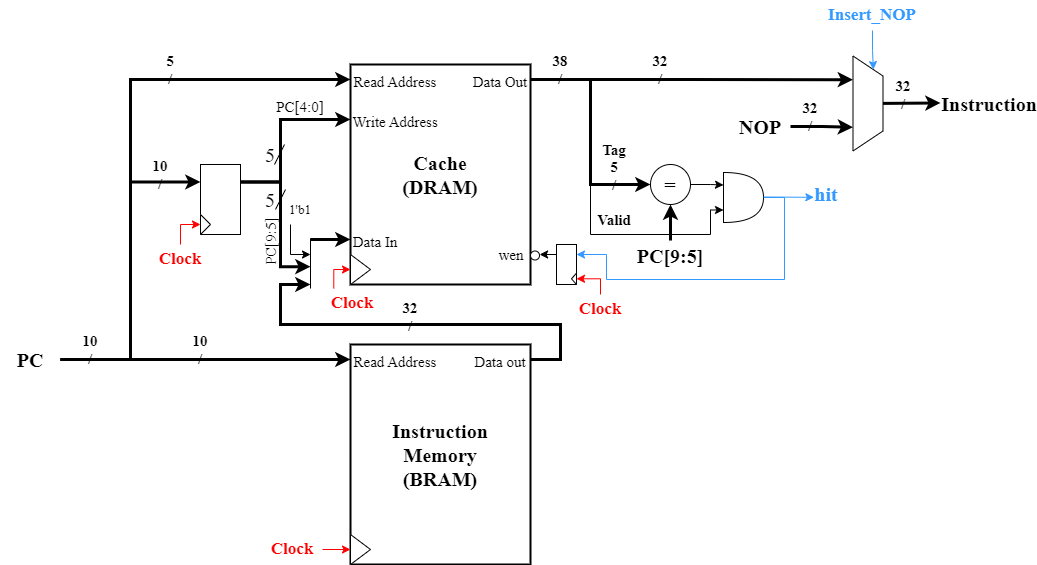
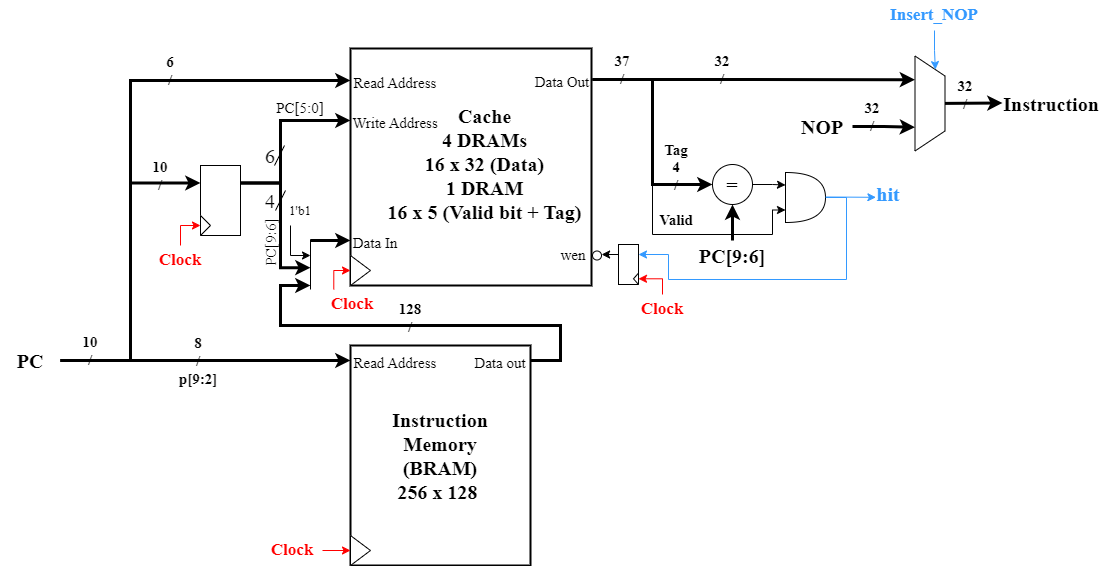
updated cache

Changed region(s): [[0.0, 0.0602, 1.0, 1.0], [0.8023, 0.0, 0.8949, 0.0602], [0.4629, 0.9929, 0.5246, 1.0]]

diff --git a/Assignment_03/README.md b/Assignment_03/README.md
@@ -84,7 +84,7 @@ The 32-bit 5-stage pipelined RISC-V processor follows a multi-cycle datapath des
 #### Key Components of the Datapath
  Program Counter (PC): The PC holds the address of the next instruction to be fetched. In the pipeline architecture, the PC is updated either sequentially or based on branch/jump decisions, allowing for instruction pre-fetching and branching without pipeline stalling.
 
-Instruction Memory with Instruction Cache: This module stores instructions to be executed and incorporates a direct-mapped instruction cache (32x32 bits) with a block size of four words. The cache enhances instruction fetch performance by reducing memory access time, while the instruction memory (1024x32 bits) is the primary storage.
+Instruction Memory with Instruction Cache: This module stores instructions to be executed and incorporates a direct-mapped instruction cache (4 banks of DRAM) with a block size of four words. The cache enhances instruction fetch performance by reducing memory access time, while the instruction memory (256x128 bits) is the primary storage.
 
 - **Register File:** The processor includes a register file with 32 registers (x0 to x31), where x0 is hardwired to zero. This file supports simultaneous reading of two source registers and writing to one destination register, ensuring efficient data flow through the pipeline stages.
 
@@ -312,7 +312,7 @@ The assembly code was then converted into binary instructions and loaded into th
 
 ## Reports
 
-The timing report from the FPGA synthesis confirms that all setup and hold times are met, with no timing violations at a 18.11 ns clock period. The timing summary is given in the figure below. The power and resource utilization reports are presented in the following figures:-
+The timing report from the FPGA synthesis confirms that all setup and hold times are met, with no timing violations at a 16.7 ns clock period. The timing summary is given in the figure below. The power and resource utilization reports are presented in the following figures:-
 
 #### Timings Summary Report
 <img src="./Assets/Time.png" alt="Level 0 Data-path" width="800"/>
@@ -328,7 +328,7 @@ The timing report from the FPGA synthesis confirms that all setup and hold times
 
 In this project, a 32-bit single-cycle RISC-V processor was successfully designed and implemented on the Digilent BASYS3 FPGA board. The processor supports a basic subset of RISC-V instructions, including arithmetic, logical, load/store, and branching operations. The processor was tested using a Bubble Sort algorithm, which verified its functional correctness. The sorted array was stored in registers, and the processor demonstrated stable performance during execution.
 
-The design process involved creating a complete datapath and control unit, ensuring proper communication between various components such as the ALU, register file, and memory units. The FPGA implementation showed that the processor meets timing requirements with no violations at a 21 ns clock period, and resource utilization was kept within the available limits.
+The design process involved creating a complete datapath and control unit, ensuring proper communication between various components such as the ALU, register file, and memory units. The FPGA implementation showed that the processor meets timing requirements with no violations at a 16.7 ns clock period, and resource utilization was kept within the available limits.
 
 Despite the processor's simplicity, it serves as a robust foundation for understanding single-cycle architectures. Future work could expand the instruction set to support more complex operations, such as multiplication and division, and optimize the design for better clock frequency performance.
 
